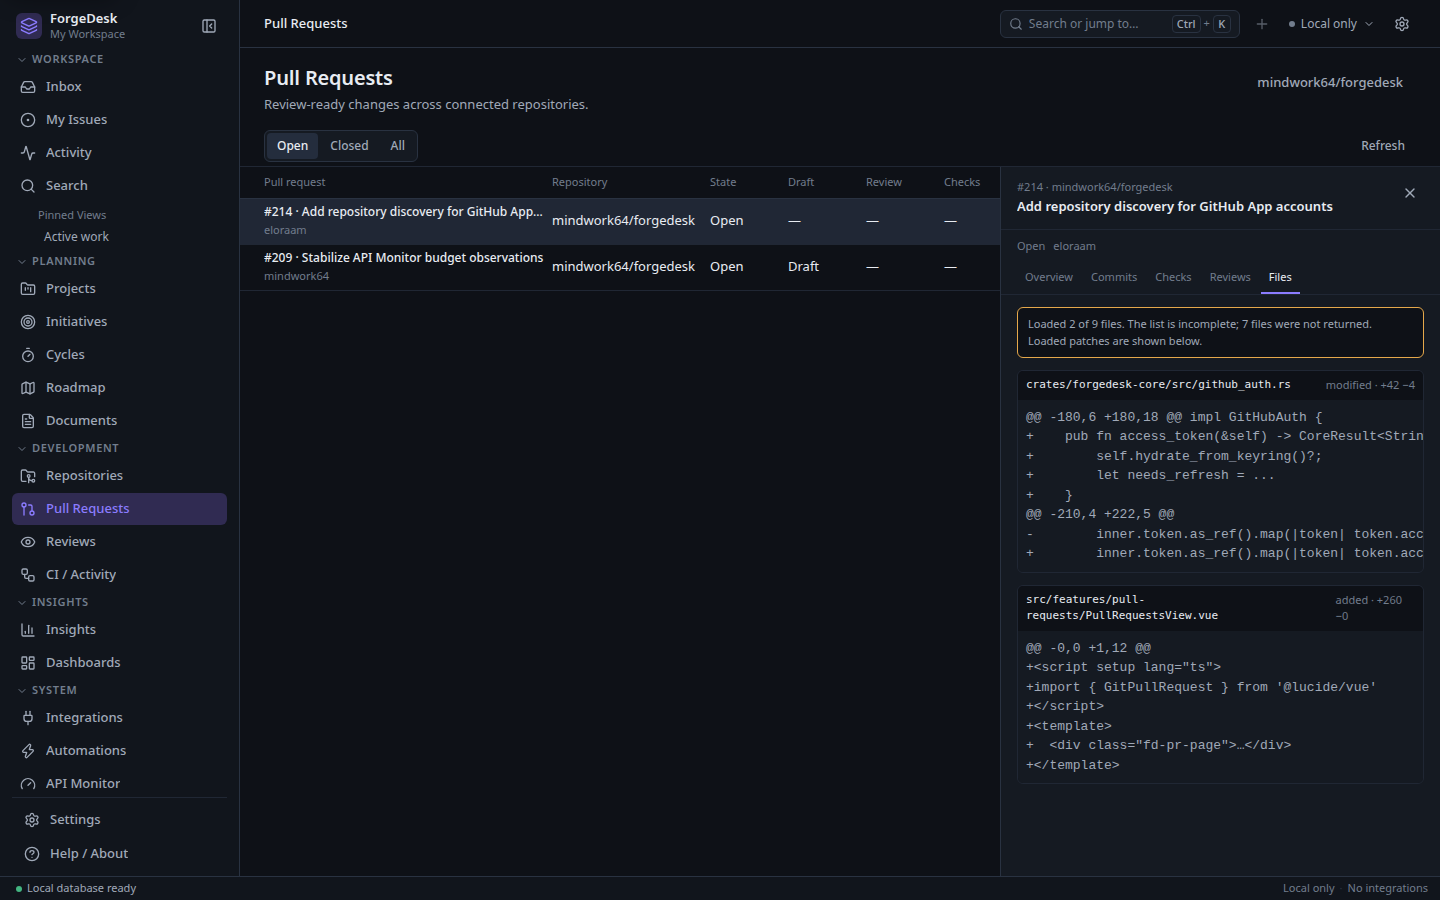
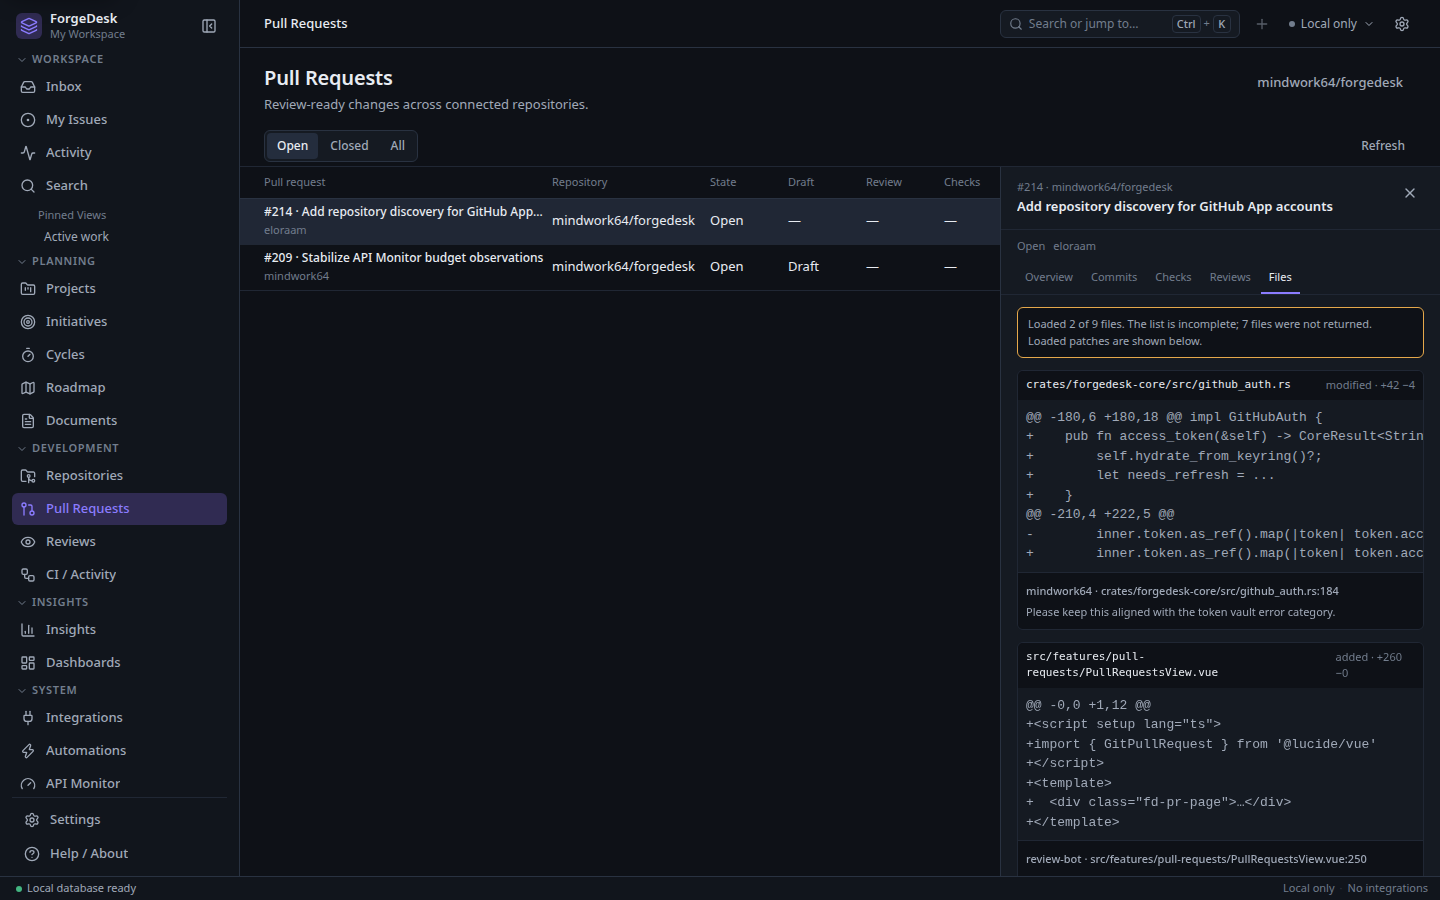
Add read-only PR review comments

Changed region(s): [[0.6875, 0.6533, 0.9688, 0.9644], [0.7812, 0.9333, 0.9375, 0.9644], [0.8125, 0.8711, 0.8438, 0.9022]]

diff --git a/src/features/pull-requests/PullRequestsView.vue b/src/features/pull-requests/PullRequestsView.vue
@@ -85,6 +85,10 @@ function openPull(item: GitHubPull): void {
   void prs.open(selectedRepo.value.owner, selectedRepo.value.name, item.number)
 }
 
+function fileComments(filename: string) {
+  return prs.detail?.comments.filter((comment) => comment.path === filename) ?? []
+}
+
 function checkTone(check: GitHubCheckRun): string {
   if (check.conclusion === 'success') return 'ok'
   if (check.conclusion === 'failure' || check.conclusion === 'timed_out') return 'fail'
@@ -278,6 +282,17 @@ function duration(check: GitHubCheckRun): string {
                   </div>
                   <pre v-if="file.patch" class="fd-pr-patch">{{ file.patch }}</pre>
                   <p v-else class="fd-pr-muted">—</p>
+                  <div
+                    v-for="comment in fileComments(file.filename)"
+                    :key="comment.id"
+                    class="fd-pr-comment"
+                  >
+                    <strong>
+                      {{ comment.user?.login ?? '—' }} ·
+                      {{ comment.path }}:{{ comment.line ?? comment.originalLine ?? '—' }}
+                    </strong>
+                    <p>{{ comment.body }}</p>
+                  </div>
                 </div>
               </template>
             </div>
@@ -325,6 +340,9 @@ function duration(check: GitHubCheckRun): string {
 .fd-pr-file { margin-bottom: var(--fd-space-3); border: 1px solid var(--fd-border-subtle); border-radius: var(--fd-radius-control); overflow: hidden; }
 .fd-pr-file__head { display: flex; align-items: center; justify-content: space-between; gap: var(--fd-space-2); padding: 6px 8px; background: var(--fd-bg); }
 .fd-pr-file__head code { overflow: hidden; font-size: var(--fd-text-11); text-overflow: ellipsis; }
+.fd-pr-comment { border-top: 1px solid var(--fd-border-subtle); padding: 8px; background: var(--fd-bg); }
+.fd-pr-comment strong { color: var(--fd-text-secondary); font-size: var(--fd-text-11); font-weight: var(--fd-weight-medium); }
+.fd-pr-comment p { margin: 4px 0 0; color: var(--fd-text-secondary); font-size: var(--fd-text-11); line-height: var(--fd-line-body); white-space: pre-wrap; }
 .fd-pr-patch { max-height: 280px; margin: 0; overflow: auto; padding: 8px; background: var(--fd-surface); color: var(--fd-text-secondary); font-family: var(--fd-font-mono); font-size: var(--fd-text-10); line-height: 1.5; white-space: pre; }
 .fd-pr-check--ok { color: var(--fd-success); }
 .fd-pr-check--fail { color: var(--fd-danger); }

diff --git a/src/dev/stage6Fixtures.ts b/src/dev/stage6Fixtures.ts
@@ -7,6 +7,7 @@ import type {
   GitHubFile,
   GitHubSearchIssue,
   CiOverview,
+  GitHubReviewComment,
   PullRequestDetail,
 } from '@/types/ipc'
 
@@ -123,12 +124,38 @@ const files: GitHubFile[] = [
   },
 ]
 
+const reviewComments: GitHubReviewComment[] = [
+  {
+    id: 701,
+    body: 'Please keep this aligned with the token vault error category.',
+    path: 'crates/forgedesk-core/src/github_auth.rs',
+    line: 184,
+    originalLine: 180,
+    side: 'RIGHT',
+    user: { login: 'mindwork64' },
+    createdAt: iso(3),
+    htmlUrl: 'https://github.com/mindwork64/forgedesk/pull/214#discussion_r701',
+  },
+  {
+    id: 702,
+    body: 'The warning should stay non-blocking while patches remain visible.',
+    path: 'src/features/pull-requests/PullRequestsView.vue',
+    line: 250,
+    originalLine: 246,
+    side: 'RIGHT',
+    user: { login: 'review-bot' },
+    createdAt: iso(5),
+    htmlUrl: null,
+  },
+]
+
 const detail: PullRequestDetail = {
   pull: pullOne,
   commits,
   reviews,
   checks,
   files,
+  comments: reviewComments,
 }
 
 const overLimitFiles: GitHubFile[] = Array.from({ length: 3000 }, (_, index) => ({
@@ -163,6 +190,7 @@ const overLimitDetail: PullRequestDetail = {
   reviews: [],
   checks: [],
   files: overLimitFiles,
+  comments: [],
 }
 
 export function handleStage6FixtureCommand<T>(

diff --git a/src/types/ipc.ts b/src/types/ipc.ts
@@ -815,12 +815,25 @@ export interface GitHubFile {
   previousFilename: string | null
 }
 
+export interface GitHubReviewComment {
+  id: number
+  body: string
+  path: string
+  line: number | null
+  originalLine: number | null
+  side: string | null
+  user: { login: string } | null
+  createdAt: string
+  htmlUrl: string | null
+}
+
 export interface PullRequestDetail {
   pull: GitHubPull
   commits: GitHubCommit[]
   reviews: GitHubReview[]
   checks: GitHubCheckRun[]
   files: GitHubFile[]
+  comments: GitHubReviewComment[]
 }
 
 export interface GitHubSearchIssue {

diff --git a/crates/forgedesk-core/src/github_client.rs b/crates/forgedesk-core/src/github_client.rs
@@ -155,6 +155,19 @@ struct GitHubSearchResult {
 }
 
 #[derive(Debug, Clone, Serialize, Deserialize)]
+pub struct GitHubReviewComment {
+    pub id: i64,
+    pub body: String,
+    pub path: String,
+    pub line: Option<i64>,
+    pub original_line: Option<i64>,
+    pub side: Option<String>,
+    pub user: Option<GitHubOwner>,
+    pub created_at: String,
+    pub html_url: Option<String>,
+}
+
+#[derive(Debug, Clone, Serialize, Deserialize)]
 pub struct GitHubFile {
     pub filename: String,
     pub status: String,
@@ -275,6 +288,21 @@ impl GitHubClient {
     ) -> CoreResult<Page<GitHubCommit>> {
         let path = format!(
             "/repos/{}/{}/pulls/{}/commits?per_page=50",
+            encode(owner),
+            encode(repo),
+            number
+        );
+        self.get_page(&path)
+    }
+
+    pub fn list_pull_comments(
+        &self,
+        owner: &str,
+        repo: &str,
+        number: i64,
+    ) -> CoreResult<Page<GitHubReviewComment>> {
+        let path = format!(
+            "/repos/{}/{}/pulls/{}/comments?per_page=100",
             encode(owner),
             encode(repo),
             number

diff --git a/crates/forgedesk-core/src/github_pr.rs b/crates/forgedesk-core/src/github_pr.rs
@@ -3,6 +3,7 @@ use serde::Serialize;
 use crate::error::CoreResult;
 use crate::github_client::{
     GitHubCheckRun, GitHubClient, GitHubCommit, GitHubFile, GitHubPull, GitHubReview,
+    GitHubReviewComment,
 };
 
 #[derive(Debug, Clone, Serialize)]
@@ -13,6 +14,7 @@ pub struct PullRequestDetail {
     pub reviews: Vec<GitHubReview>,
     pub checks: Vec<GitHubCheckRun>,
     pub files: Vec<GitHubFile>,
+    pub comments: Vec<GitHubReviewComment>,
 }
 
 pub fn list_pulls(
@@ -38,12 +40,14 @@ pub fn pull_detail(
     let reviews = client.list_pull_reviews(owner, repo, number)?.items;
     let checks = client.list_check_runs(owner, repo, &pull.head.sha)?;
     let files = client.list_pull_files(owner, repo, number)?;
+    let comments = client.list_pull_comments(owner, repo, number)?.items;
     Ok(PullRequestDetail {
         pull,
         commits,
         reviews,
         checks,
         files,
+        comments,
     })
 }
 

diff --git a/docs/stages/STAGE-6-report.md b/docs/stages/STAGE-6-report.md
@@ -36,6 +36,8 @@ screen remain open.
   read-only table opens the corresponding PR detail via `/pull-requests?pr=N`.
 - **CI / Activity screen:** default branch, recent commits, check-runs for the latest
   commit, and lazy per-commit check loading; read-only.
+- **PR review comments:** read-only comments loaded with the PR detail and shown under
+  the matching file with path, line, author and body.
 - Reliability fixes: idempotent, error-safe GitHub disconnect (memory/keyring
   consistent); PR files pagination follows `Page.next_page` with cycle/non-advance
   rejection and fails the whole request on later-page errors.
@@ -49,7 +51,7 @@ screen remain open.
 
 ## Not delivered
 
-- Split diff, line comments and resolved-thread state.
+- Split diff, inline line placement and resolved-thread state.
 - Review submission, approve/request-changes, merge/close, merge readiness and
   permission-aware actions.
 - PR-to-local-issue linking, PR labels/assignees/milestones, merge queue.

diff --git a/docs/PROJECT_STATE.md b/docs/PROJECT_STATE.md
@@ -82,7 +82,9 @@ through `user_version`. See ADR-0001…0007.
   confirms absence. Invalid saved JSON returns a safe auth error without deletion.
 - Reviews queue and CI/Activity screens are read-only and use GitHub search plus
   check-runs; commit selection lazily loads checks. Live read-only verification
-  passed for both endpoints.
+  passed for both endpoints. PR review comments are loaded and shown under the
+  matching file with path/line/author/body; split diff and thread resolution remain
+  open.
 - Split diff/line comments, review submission, merge/close, PR↔issue links and
   budget-aware PR request logging remain open.
 
